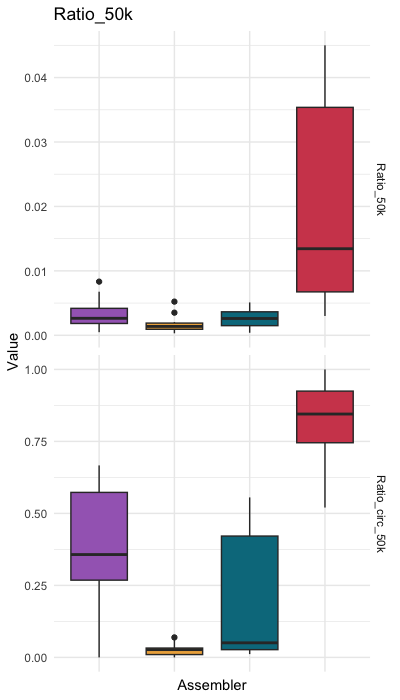
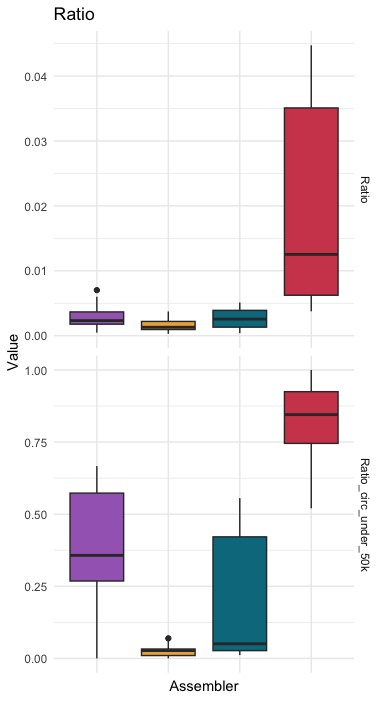
Figure fix

diff --git a/data/benchmarking-long-read-assemblers/index.md b/data/benchmarking-long-read-assemblers/index.md
@@ -1625,8 +1625,8 @@ Assembler_boxplot(df_long[!(df_long$group == "Zymo" | df_long$group == "ATCC"),]
 To reproduce the two boxplot in Figure 5:
 ```R
 Assembler_boxplot(df_long[!(df_long$group == "Zymo" | df_long$group == "ATCC"),],
-                  metric = c("Ratio_50k",
-                             "Ratio_circ_50k"))
+                  metric = c("Ratio",
+                             "Ratio_circ_under_50k"))
 ```
 
 [![03_box_plot_figure_5](images/03_box_plot_figure_5.png)](images/03_box_plot_figure_5.png){:.center-img .width-40}
